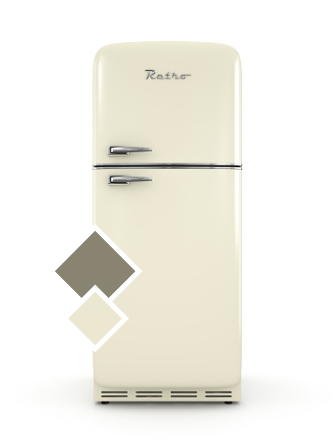
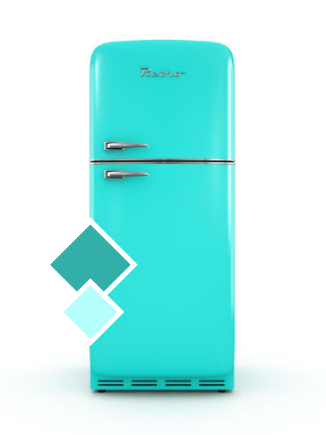
Menu implementado

diff --git a/lib/screens/home_sreen.dart b/lib/screens/home_sreen.dart
@@ -1,4 +1,8 @@
 import 'package:flutter/material.dart';
+import 'package:fridge/components/background.dart';
+import 'package:fridge/components/logo.dart';
+import 'package:fridge/components/menu_button.dart';
+import 'package:fridge/themes.dart';
 
 import 'fridge/fridge_content.dart';
 import 'history/history_content.dart';
@@ -17,37 +21,75 @@ class _HomeScreenState extends State<HomeScreen> {
     TopFiveContent(),
   ];
 
-  void onPressed(int index) {
-   setState(() {
-     _currentIndex = index;
-   });
- }
+  _navigateTo(int index) {
+    setState(() {
+      _currentIndex = index;
+      print(_currentIndex);
+    });
+  }
 
   @override
   Widget build(BuildContext context) {
-    return Scaffold(
+    var size = MediaQuery.of(context).size;
 
+    return Scaffold(
+      body: Stack(
+        children: <Widget>[
+          Background(),
+          SafeArea(
+            child: Align(
+              alignment: Alignment.topCenter,
+              child: Column(
+                children: [
+                  // header
+                  Spacer(),
+                  Logo(),
+                  SizedBox(height: 20),
+                  menuBuild(),
+                  Spacer(),
+
+                  _children[_currentIndex],
+
+                ],
+              ),
+            ),
+          )
+        ],
+      ),
     );
-  //   return Scaffold(
-  //     body: _children[_currentIndex],
-  //     bottomNavigationBar: BottomNavigationBar(
-  //       onTap: onPressed, 
-  //       currentIndex: 0, // this will be set when a new tab is tapped
-  //       items: [
-  //         BottomNavigationBarItem(
-  //           icon: new Icon(Icons.home),
-  //           title: new Text('Home'),
-  //         ),
-  //         BottomNavigationBarItem(
-  //           icon: new Icon(Icons.mail),
-  //           title: new Text('Messages'),
-  //         ),
-  //         BottomNavigationBarItem(
-  //           icon: Icon(Icons.person),
-  //           title: Text('Profile')
-  //         )
-  //       ],
-  //    ),
-  //   );
-  // }
+  }
+
+  Row menuBuild() {
+    return Row(
+      mainAxisAlignment: MainAxisAlignment.center,
+      children: <Widget>[
+        MenuButton(
+          onPressed: () => _navigateTo(0),
+          text: 'Geladeira',
+          svgSrc: 'assets/icons/fridge.svg',
+          color: _currentIndex == 0
+              ? Theme.of(context).primaryColor
+              : AppColors.GRAY_n141.withOpacity(.5),
+        ),
+        SizedBox(width: 20),
+        MenuButton(
+          onPressed: () => _navigateTo(1),
+          text: 'Histórico',
+          svgSrc: 'assets/icons/clock.svg',
+          color: _currentIndex == 1
+              ? Theme.of(context).primaryColor
+              : AppColors.GRAY_n141.withOpacity(.5),
+        ),
+        SizedBox(width: 20),
+        MenuButton(
+          onPressed: () => _navigateTo(2),
+          text: 'Top 5',
+          svgSrc: 'assets/icons/star.svg',
+          color: _currentIndex == 2
+              ? Theme.of(context).primaryColor
+              : AppColors.GRAY_n141.withOpacity(.5),
+        ),
+      ],
+    );
+  }
 }

diff --git a/lib/screens/fridge/fridge_content.dart b/lib/screens/fridge/fridge_content.dart
@@ -1,10 +1,75 @@
 import 'package:flutter/material.dart';
+import 'package:flutter_svg/flutter_svg.dart';
+
+import '../../themes.dart';
 
 class FridgeContent extends StatelessWidget {
   @override
   Widget build(BuildContext context) {
+    var size = MediaQuery.of(context).size;
+
     return SafeArea(
-      child: Text('sdasdasdasd'),
+      child: Stack(
+        alignment: Alignment.center,
+        children: <Widget>[
+          Container(
+            height: size.height * .65,
+            width: size.width,
+            margin: EdgeInsets.only(top: 20),
+            padding: EdgeInsets.symmetric(horizontal: size.width * .1),
+            decoration: BoxDecoration(
+              color: Colors.white,
+              borderRadius: BorderRadius.only(
+                topLeft: Radius.circular(46),
+                topRight: Radius.circular(46),
+              ),
+              boxShadow: <BoxShadow>[
+                BoxShadow(
+                  offset: Offset(0, -10),
+                  blurRadius: 20,
+                  color: AppColors.BLACK.withOpacity(.05),
+                )
+              ],
+            ),
+          ),
+          Positioned(
+            top: 0,
+            child: InkWell(
+              onTap: () {},
+              borderRadius: BorderRadius.circular(16),
+              highlightColor: AppColors.GREEN_n51.withOpacity(.2),
+              child: Container(
+                width: size.width * .4,
+                padding: EdgeInsets.symmetric(
+                  horizontal: 12,
+                  vertical: 12,
+                ),
+                decoration: BoxDecoration(
+                  color: Theme.of(context).primaryColor,
+                  borderRadius: BorderRadius.circular(12),
+                ),
+                child: Row(
+                  mainAxisAlignment: MainAxisAlignment.center,
+                  children: <Widget>[
+                    Icon(
+                      Icons.add,
+                      color: Colors.white,
+                    ),
+                    SizedBox(width: 10),
+                    Text(
+                      'Adicionar item',
+                      style: TextStyle(
+                        color: Colors.white,
+                        fontSize: 14,
+                      ),
+                    )
+                  ],
+                ),
+              ),
+            ),
+          )
+        ],
+      ),
     );
   }
 }

diff --git a/lib/themes.dart b/lib/themes.dart
@@ -1,0 +1,42 @@
+import 'package:flutter/material.dart';
+
+class AppColors {
+  static const BLACK = Color.fromRGBO(0, 0, 0, 1);
+  static const GRAY_n141 = Color.fromRGBO(141, 141, 141, 1);
+
+  static const GREEN_n51 = Color.fromRGBO(51, 175, 170, 1);
+  static const GREEN_n0 = Color.fromRGBO(0, 114, 110, 1);
+
+  static const YELLOW_n119 = Color.fromRGBO(119, 115, 98, 1);
+  static const YELLOW_n245 = Color.fromRGBO(234, 243, 237, 1);
+
+  static const RED_n230 = Color.fromRGBO(230, 82, 82, 1);
+}
+
+ThemeData greenTheme(BuildContext context) {
+  return ThemeData(
+    primaryColor: AppColors.GREEN_n51,
+    scaffoldBackgroundColor: Colors.white,
+    iconTheme: IconThemeData(color: AppColors.GRAY_n141.withOpacity(.5)),
+    fontFamily: 'DidactGothic',
+    colorScheme: ColorScheme.light(
+      primary: AppColors.GREEN_n51,
+      secondary: AppColors.GREEN_n0,
+      error: AppColors.RED_n230,
+    ),
+  );
+}
+
+ThemeData yellowTheme(BuildContext context) {
+  return ThemeData(
+    primaryColor: AppColors.YELLOW_n119,
+    scaffoldBackgroundColor: Colors.white,
+    iconTheme: IconThemeData(color: AppColors.GRAY_n141.withOpacity(.5)),
+    fontFamily: 'DidactGothic',
+    colorScheme: ColorScheme.light(
+      primary: AppColors.YELLOW_n119,
+      secondary: AppColors.YELLOW_n245,
+      error: AppColors.RED_n230,
+    ),
+  );
+}

diff --git a/lib/components/menu_button.dart b/lib/components/menu_button.dart
@@ -1,0 +1,44 @@
+import 'package:flutter/material.dart';
+import 'package:flutter_svg/flutter_svg.dart';
+
+import '../themes.dart';
+
+class MenuButton extends StatelessWidget {
+  const MenuButton({
+    Key key,
+    @required this.onPressed,
+    @required this.svgSrc,
+    @required this.text,
+    this.color,
+  }) : super(key: key);
+
+  final Function onPressed;
+  final String svgSrc, text;
+  final Color color;
+
+  @override
+  Widget build(BuildContext context) {
+    return InkWell(
+      onTap: onPressed,
+      borderRadius: BorderRadius.circular(16),
+      highlightColor: AppColors.GREEN_n51.withOpacity(.2),
+      child: Padding(
+        padding: EdgeInsets.symmetric(
+          horizontal: 12,
+          vertical: 16,
+        ),
+        child: Column(
+          children: <Widget>[
+            SvgPicture.asset(svgSrc,
+                color: color),
+            SizedBox(height: 5),
+            Text(
+              text,
+              style: TextStyle(color: color),
+            )
+          ],
+        ),
+      ),
+    );
+  }
+}

diff --git a/lib/components/logo.dart b/lib/components/logo.dart
@@ -1,0 +1,33 @@
+import 'package:flutter/material.dart';
+
+import '../themes.dart';
+
+class Logo extends StatelessWidget {
+  const Logo({
+    Key key,
+  }) : super(key: key);
+
+  @override
+  Widget build(BuildContext context) {
+    return Column(
+      children: <Widget>[
+        Text(
+          'Minha',
+          style: TextStyle(
+            fontFamily: 'Imprima',
+            fontSize: 25,
+            color: AppColors.BLACK,
+          ),
+        ),
+        Text(
+          'Geladeira',
+          style: TextStyle(
+            fontFamily: 'Imprima',
+            fontSize: 50,
+            color: AppColors.BLACK,
+          ),
+        )
+      ],
+    );
+  }
+}

diff --git a/lib/components/background.dart b/lib/components/background.dart
@@ -1,0 +1,19 @@
+import 'package:flutter/material.dart';
+
+class Background extends StatelessWidget {
+  const Background({
+    Key key,
+  }) : super(key: key);
+
+  @override
+  Widget build(BuildContext context) {
+    return Container(
+      decoration: BoxDecoration(
+        image: DecorationImage(
+          alignment: Alignment.topCenter,
+          image: AssetImage('assets/images/green-bg.png'),
+        ),
+      ),
+    );
+  }
+}

diff --git a/lib/main.dart b/lib/main.dart
@@ -1,4 +1,5 @@
 import 'package:flutter/material.dart';
+import 'package:fridge/themes.dart';
 
 import 'screens/home_sreen.dart';
 
@@ -11,9 +12,7 @@ class MyApp extends StatelessWidget {
   @override
   Widget build(BuildContext context) {
     return MaterialApp(
-      theme: ThemeData(
-        primarySwatch: Colors.blue,
-      ),
+      theme: greenTheme(context),
       home: HomeScreen(),
     );
   }
